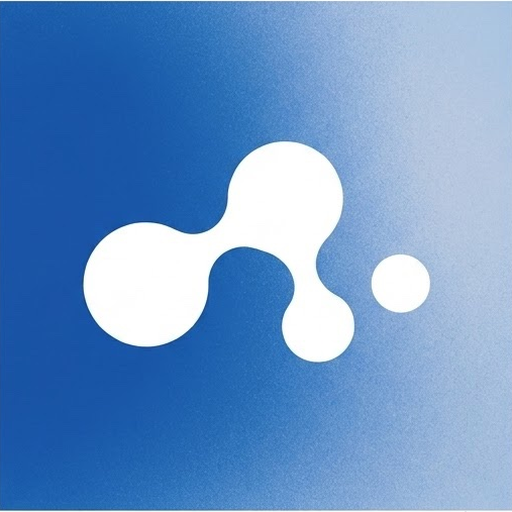
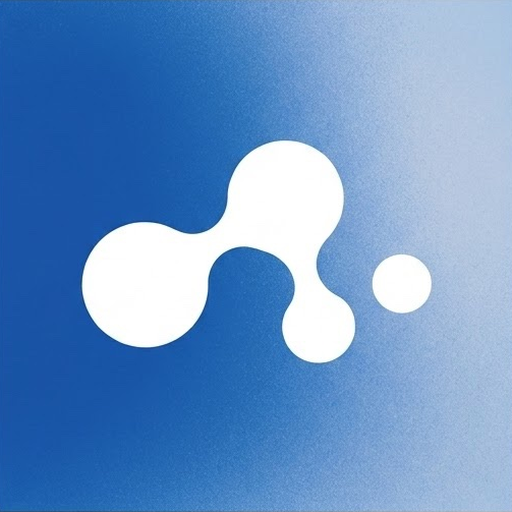
iOS：空状态图标在记录卡片左侧满幅铺满
固定 mapSide 尺寸 + scaledToFill/clipped，并收紧资源边缘，去掉色板留白。

diff --git a/codes/ios/sky-wanderer/RecordRouteThumbnail.swift b/codes/ios/sky-wanderer/RecordRouteThumbnail.swift
@@ -107,8 +107,10 @@ struct RecordRouteThumbnail: View {
 /// Full-color Sky mark plate when the card has no start coordinate to map.
 /// Used for sports that are not 力量 / 综合. Those two keep the map plate
 /// instead. The asset is the blue-gradient square with the white mark as one
-/// unit — not a tinted glyph on glass.
+/// unit, drawn edge-to-edge in the map square — no inset or letterbox.
 struct RecordSportSwatch: View {
+    var side: CGFloat = CGFloat(RecordListCardLayout.mapSide)
+
     private var plate: RoundedRectangle {
         RoundedRectangle(cornerRadius: CGFloat(RecordListCardLayout.mapCorner), style: .continuous)
     }
@@ -117,7 +119,8 @@ struct RecordSportSwatch: View {
         Image("RecordEmptyMark")
             .resizable()
             .scaledToFill()
-            .frame(maxWidth: .infinity, maxHeight: .infinity)
+            .frame(width: side, height: side)
+            .clipped()
             .clipShape(plate)
             .accessibilityHidden(true)
     }

diff --git a/codes/ios/sky-wanderer/RecordSummaryCard.swift b/codes/ios/sky-wanderer/RecordSummaryCard.swift
@@ -55,7 +55,7 @@ struct RecordSummaryCard: View {
         let kind = RecordListThumbnailKind.resolve(routeCount: workout.listThumbnailPointCount)
         // 力量 / 综合 always use the map plate — never the empty-route mark.
         if kind == .swatch && !workout.sport.listUsesStartLocationMap {
-            RecordSportSwatch()
+            RecordSportSwatch(side: mapSide)
         } else {
             RecordRouteThumbnail(
                 workoutID: workout.id,
